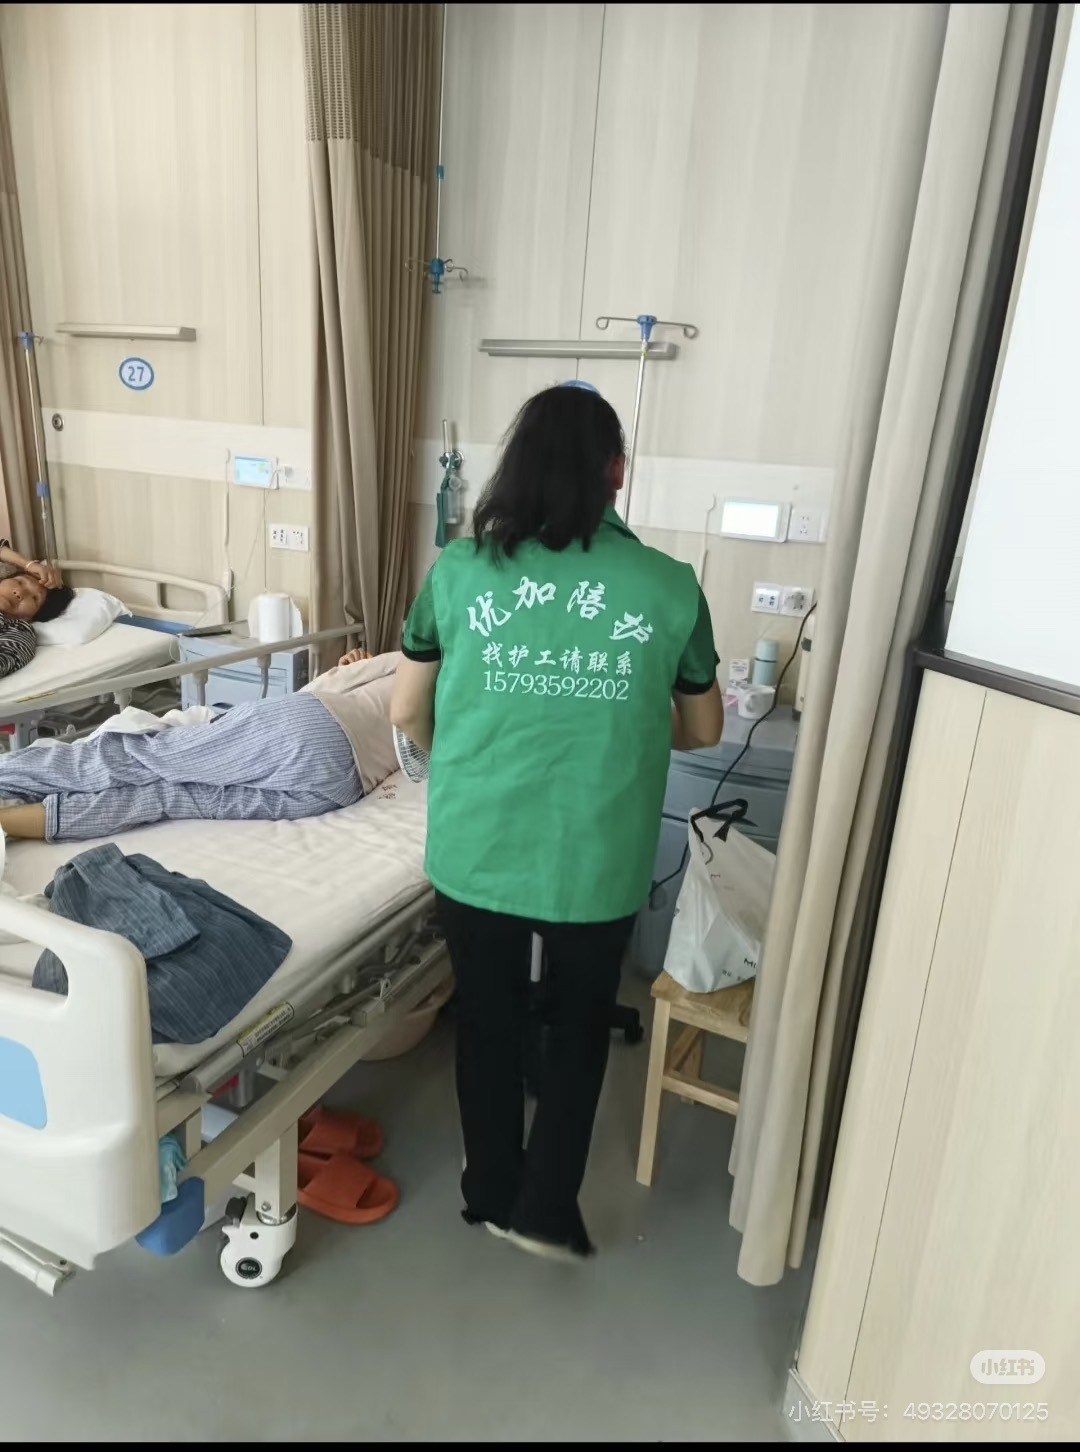
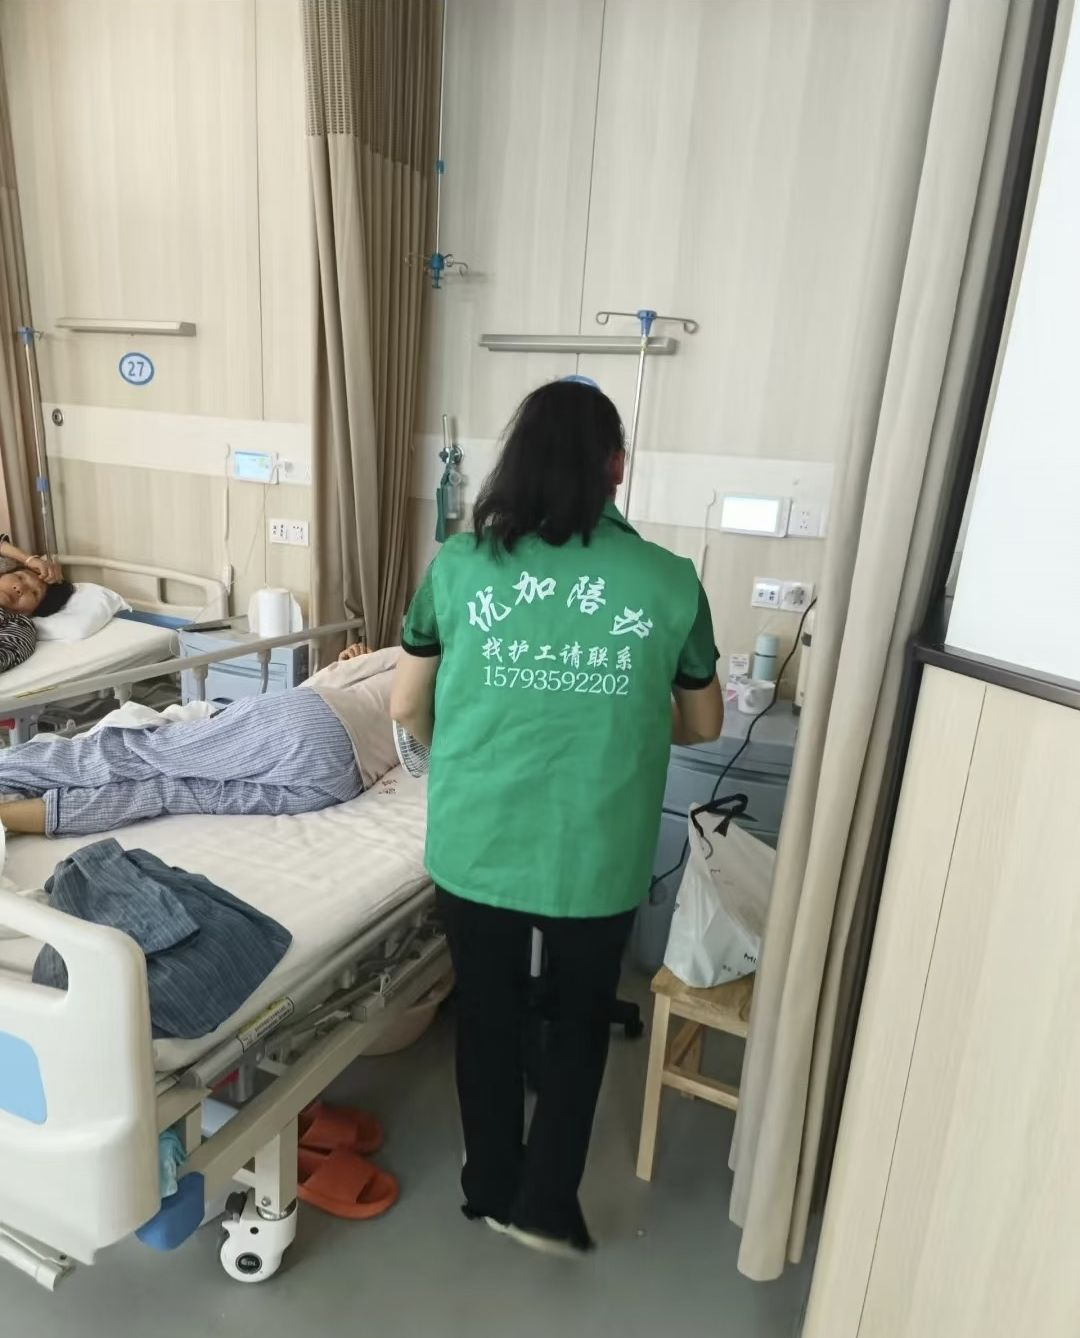
chore: 更新 youjia-caregiver-social-ops 技能的最后补丁时间和补丁计数，调整文档内容以优化内容生成逻辑

diff --git a/profiles/belle-clone/skills/youjia-caregiver-social-ops/SKILL.md b/profiles/belle-clone/skills/youjia-caregiver-social-ops/SKILL.md
@@ -38,7 +38,7 @@ metadata:
       - **防限流**：强制每次更改叙事视角，确保查重率极低。
       - **图文排版**：在全新的文本中连续插入这 2 张图片： `<Image src='image_id_1' />` 和 `<Image src='image_id_2' />`。
       *(注：文案中保留私信价格表等钩子承接观望客户，但不要进行“十分钟到场”等过度承诺防范客诉风险，也不要在文案里隐晦提及衣服电话。让客户自然看图即可)*
-  👉 Belle 会先调用 `tencent-docs` 的 `create_smartcanvas_by_mdx` 生成带排版的文档，然后自动调用 `manage.move_file` 将该帖子移动到腾讯文档 `YJ/HG` 目录下 (Folder ID: `GftErUgfwmaz`)。
+  👉 Belle 会先调用 `tencent-docs` 的 `create_smartcanvas_by_mdx` 生成带排版的文档。**注意：创建腾讯文档时的标题 (title 字段) 必须自然、适合直接转发朋友圈（例如 `【优加陪护】西京医院消化内科：王阿姨专业陪护实录`），绝对禁止使用“社媒笔记_SEO版”等内部技术化命名！** 然后自动调用 `manage.move_file` 将该帖子移动到腾讯文档 `YJ/HG` 目录下 (Folder ID: `GftErUgfwmaz`)。
   👉 **核心避坑 (mcporter 调用)**：调用带 "." 的工具名 (如 `manage.move_file`) 时，由于 CLI 解析 bug，绝不能用 `mcporter call tencent-docs.manage.move_file`。必须使用显式参数：`mcporter call --server tencent-docs --tool manage.move_file --args '{"file_id":"...","target_folder_id":"GftErUgfwmaz"}' --output json`。
   👉 Belle 返回腾讯文档链接给哥哥，哥哥直接点击复制并发布。
 - **指令**：“生成笔记配图” 或 哥哥提供现场照片及护工照片要求生成图片
